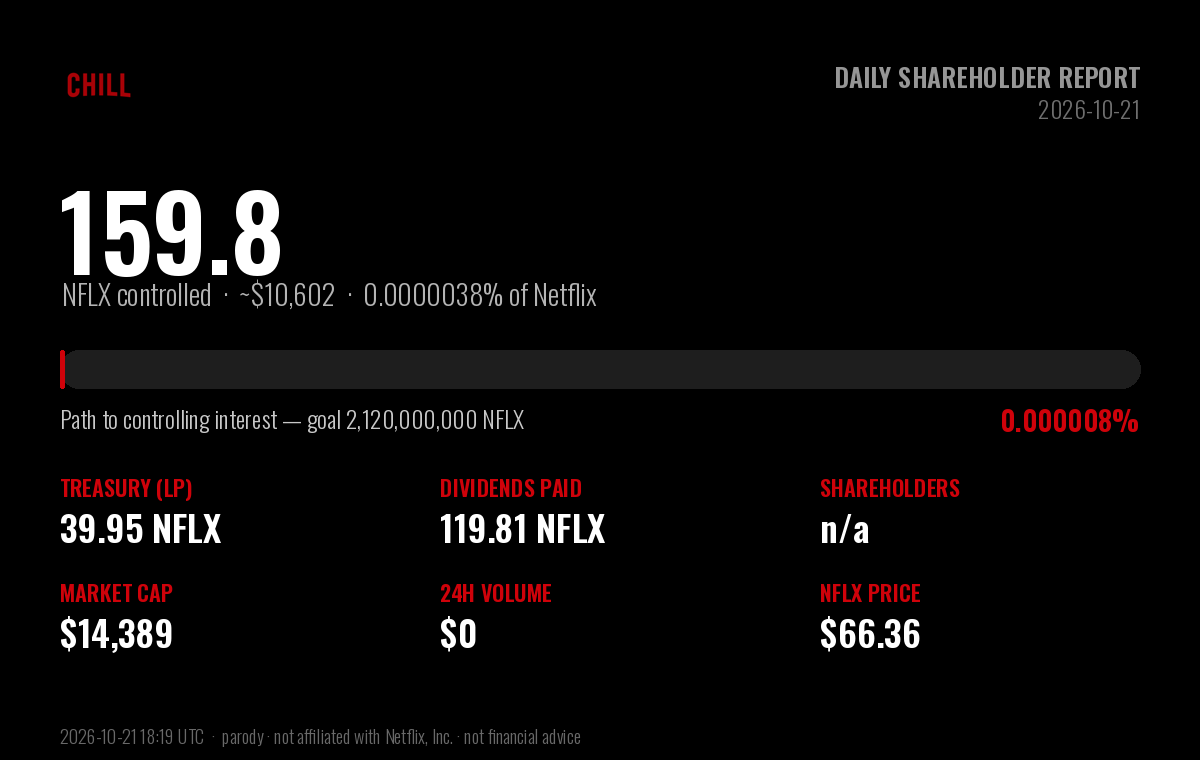
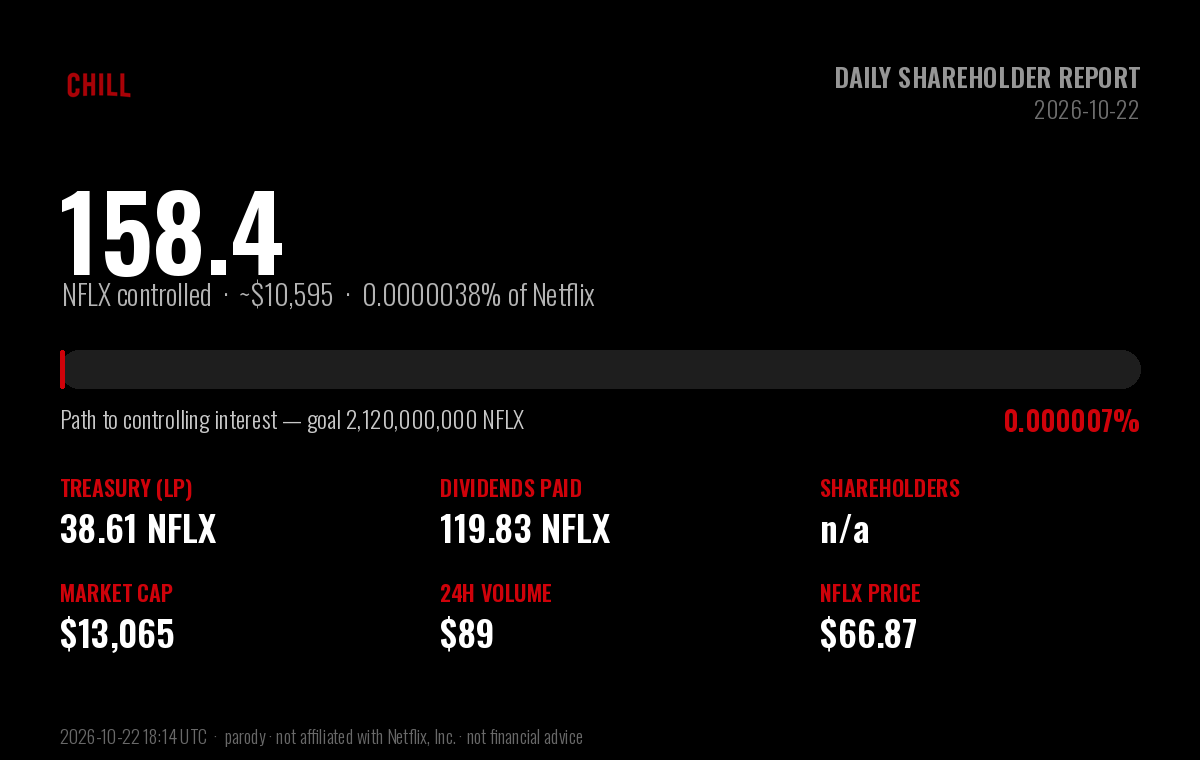
chore: daily $CHILL shareholder report (2026-10-22)

diff --git a/daily-holder-report/README.md b/daily-holder-report/README.md
@@ -1,6 +1,6 @@
 # $CHILL — Daily Shareholder Report
 
-### Netflix and Chill · Report to Shareholders · 2026-10-21
+### Netflix and Chill · Report to Shareholders · 2026-10-22
 
 > **Corporate objective:** acquire a controlling interest in Netflix (NFLX).
 > Netflix has **4,220,000,000** shares outstanding; a majority
@@ -13,28 +13,28 @@
 
 | Metric | Value |
 |---|---|
-| **NFLX under $CHILL control** | **159.77 NFLX** (~$10,602) |
-| Stake in Netflix | 0.000003786% of shares outstanding |
+| **NFLX under $CHILL control** | **158.44 NFLX** (~$10,595) |
+| Stake in Netflix | 0.000003755% of shares outstanding |
 | Progress to controlling interest | 0.0000075% of 2,120,000,000 |
-| Shares remaining to majority | 2,119,999,840 NFLX |
+| Shares remaining to majority | 2,119,999,842 NFLX |
 
 ## Balance sheet — NFLX holdings
 
 | Holding | NFLX | USD |
 |---|---|---|
-| Treasury (protocol-owned liquidity) | 39.95 | $2,651 |
-| Dividends distributed to shareholders | 119.81 | $7,951 |
-| **Total NFLX controlled** | **159.77** | **$10,602** |
+| Treasury (protocol-owned liquidity) | 38.61 | $2,582 |
+| Dividends distributed to shareholders | 119.83 | $8,013 |
+| **Total NFLX controlled** | **158.44** | **$10,595** |
 
 ## Last 24 hours
 
 | Metric | Value |
 |---|---|
-| Trading volume | 0.00 NFLX (~$0) |
-| Net NFLX accumulated | 0.00 NFLX |
-| Dividends generated | 0.0000 NFLX |
-| Transactions | 0 (0 buys / 0 sells) |
-| $CHILL price change | -3.4% |
+| Trading volume | 1.34 NFLX (~$89) |
+| Net NFLX accumulated | -1.34 NFLX |
+| Dividends generated | 0.0134 NFLX |
+| Transactions | 1 (0 buys / 1 sells) |
+| $CHILL price change | -9.2% |
 
 ## Shareholder & market data
 
@@ -43,23 +43,23 @@
 | Shareholders of record | n/a |
 | Lifetime unique participants | 1821 |
 | Shares outstanding ($CHILL) | 1,000,000,000 |
-| Market capitalization | $14,389 |
-| $CHILL price | $0.00001439 |
-| NFLX price | $66.36 |
-| Lifetime volume | 11,981.40 NFLX (~$795,058) |
-| Lifetime transactions | 8,619 (4,816 buys / 3,803 sells) |
-| Days since IPO (launch) | 94 |
+| Market capitalization | $13,065 |
+| $CHILL price | $0.00001307 |
+| NFLX price | $66.87 |
+| Lifetime volume | 11,982.74 NFLX (~$801,257) |
+| Lifetime transactions | 8,620 (4,816 buys / 3,804 sells) |
+| Days since IPO (launch) | 95 |
 
 ## Per-share metrics
 
 | Metric | Value |
 |---|---|
-| NFLX backing per 1M $CHILL | 0.159765 NFLX |
-| Dividends per 1M $CHILL | 0.119814 NFLX |
+| NFLX backing per 1M $CHILL | 0.158441 NFLX |
+| Dividends per 1M $CHILL | 0.119827 NFLX |
 
 ---
 
-*Report generated 2026-10-21 18:19 UTC · block 94,486,133 · data via the Sentry-Robinhood
+*Report generated 2026-10-22 18:14 UTC · block 95,311,240 · data via the Sentry-Robinhood
 subgraph and Robinhood Chain explorer.*
 
 **Disclaimer:** $CHILL is an independent, community-driven **parody** token. It is
